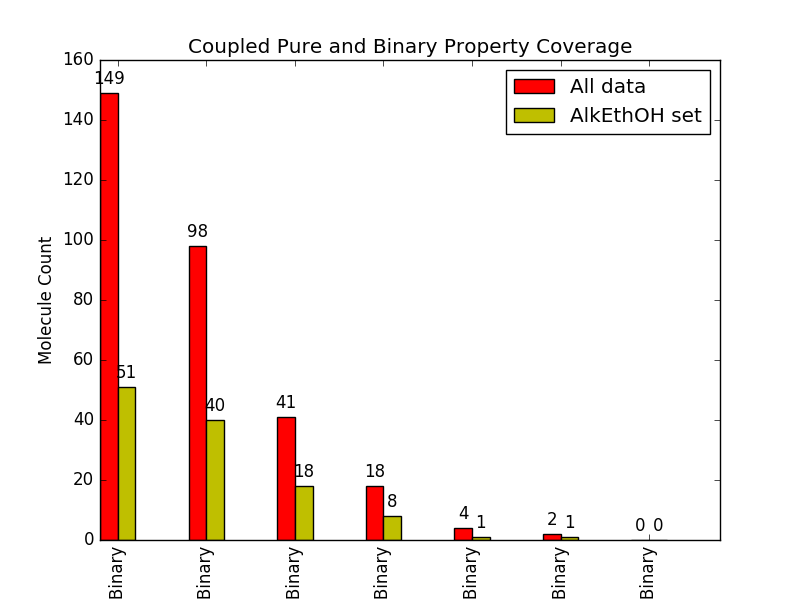
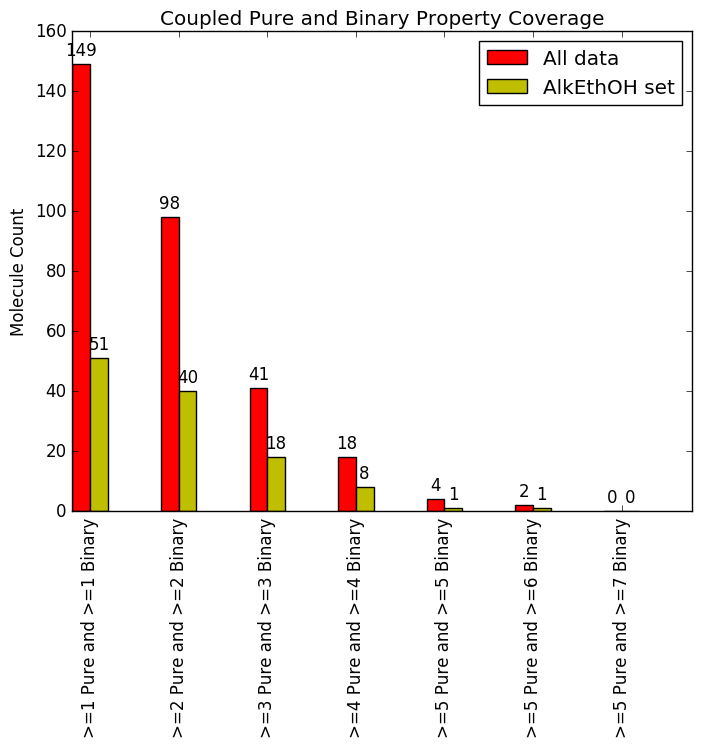
new figs

Changed region(s): [[0.0, 0.0, 1.0, 1.0]]

diff --git a/Python/googlestats.py b/Python/googlestats.py
@@ -237,11 +237,11 @@ autolabel(rects2, ax)
 ax.set_ylabel('Molecule Count')
 ax.set_title('Unique Molecules per Property of Interest')
 ax.set_xticks(ind + width)
-ax.set_xticklabels(('Pure All', 'Pure Density', 'Pure Speed of Sound', 'Pure Dielectric Constant', 'Pure Heat Capacity', 'Pure Enthalpy of Vaporization', 'Binary All', 'Binary Density', 'Binary Speed of Sound', 'Binary Dielectric Constant', 'Binary Excess Molar Enthalpy', 'Binary Excess Molar Heat Capacity', 'Binary Excess Molar Volume', 'Binary Activity Coefficient'), rotation=90)
+xlabel = ax.set_xticklabels(('Pure All', 'Pure Density', 'Pure Speed of Sound', 'Pure Dielectric Constant', 'Pure Heat Capacity', 'Pure Enthalpy of Vaporization', 'Binary All', 'Binary Density', 'Binary Speed of Sound', 'Binary Dielectric Constant', 'Binary Excess Molar Enthalpy', 'Binary Excess Molar Heat Capacity', 'Binary Excess Molar Volume', 'Binary Activity Coefficient'), rotation=90)
 
 ax.legend((rects1[0], rects2[0]), ('All data', 'AlkEthOH set'))
 
-plt.savefig('Molecules_per_property.png')
+plt.savefig('Molecules_per_property.png', bbox_inches='tight')
 
 SpreadDat = [len11,len22,len33,len44,len55,len56,len57]
 SpreadDatAlk = [len11Alk,len22Alk,len33Alk,len44Alk,len55Alk,len56Alk,len57Alk]
@@ -261,11 +261,11 @@ autolabel(rects2, ax)
 ax.set_ylabel('Molecule Count')
 ax.set_title('Coupled Pure and Binary Property Coverage')
 ax.set_xticks(ind + width)
-ax.set_xticklabels(('>=1 Pure and >=1 Binary', '>=2 Pure and >=2 Binary', '>=3 Pure and >=3 Binary', '>=4 Pure and >=4 Binary', '>=5 Pure and >=5 Binary', '>=5 Pure and >=6 Binary', '>=5 Pure and >=7 Binary'), rotation=90)
+xlabel = ax.set_xticklabels(('>=1 Pure and >=1 Binary', '>=2 Pure and >=2 Binary', '>=3 Pure and >=3 Binary', '>=4 Pure and >=4 Binary', '>=5 Pure and >=5 Binary', '>=5 Pure and >=6 Binary', '>=5 Pure and >=7 Binary'), rotation=90)
 
 ax.legend((rects1[0], rects2[0]), ('All data', 'AlkEthOH set'))
 
-plt.savefig('Coupled_property_coverage.png')
+plt.savefig('Coupled_property_coverage.png', bbox_inches='tight')
 
 CountDat = [puralkpts,puralcpts,purethpts,binalkpts,binalcpts,binethpts]
 TypeDat = [puralktyp,puralctyp,purethtyp,binalktyp,binalctyp,binethtyp]
@@ -283,9 +283,9 @@ autolabel(rects1,ax)
 ax.set_ylabel('Data Point Count')
 ax.set_title('Data point count per chemical environment in AlkEthOH filtered data')
 ax.set_xticks(ind+width)
-ax.set_xticklabels(('Alkanes Pure','Alcohols Pure','Ethers Pure','Alkanes Binary','Alcohols Binary','Ethers Binary'), rotation=90)
+xlabel = ax.set_xticklabels(('Alkanes Pure','Alcohols Pure','Ethers Pure','Alkanes Binary','Alcohols Binary','Ethers Binary'), rotation=90)
 
-plt.savefig('data_per_chemistry.png')
+plt.savefig('data_per_chemistry.png', bbox_inches='tight')
 
 N = 6
 ind = np.arange(N)
@@ -300,9 +300,7 @@ autolabel(rects1,ax)
 ax.set_ylabel('Molecule Count')
 ax.set_title('Molecules per chemical environment in AlkEthOH filtered data')
 ax.set_xticks(ind+width)
-ax.set_xticklabels(('Alkanes Pure','Alcohols Pure','Ethers Pure','Alkanes Binary','Alcohols Binary','Ethers Binary'), rotation=90)
+xlabel = ax.set_xticklabels(('Alkanes Pure','Alcohols Pure','Ethers Pure','Alkanes Binary','Alcohols Binary','Ethers Binary'), rotation=90)
 
-plt.savefig('types_per_chemistry.png')
-
-
+plt.savefig('types_per_chemistry.png', bbox_inches='tight')
 
